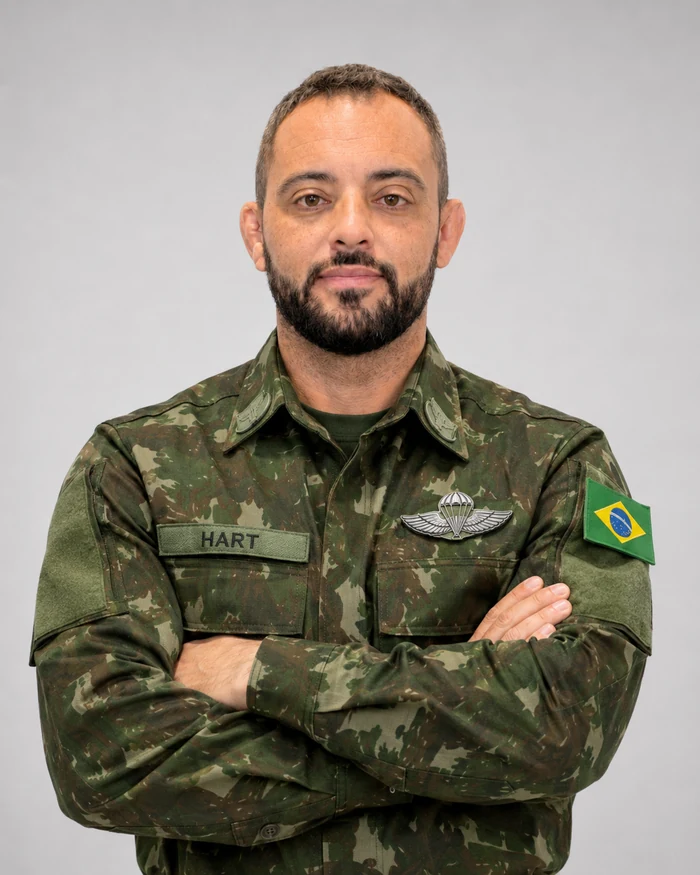
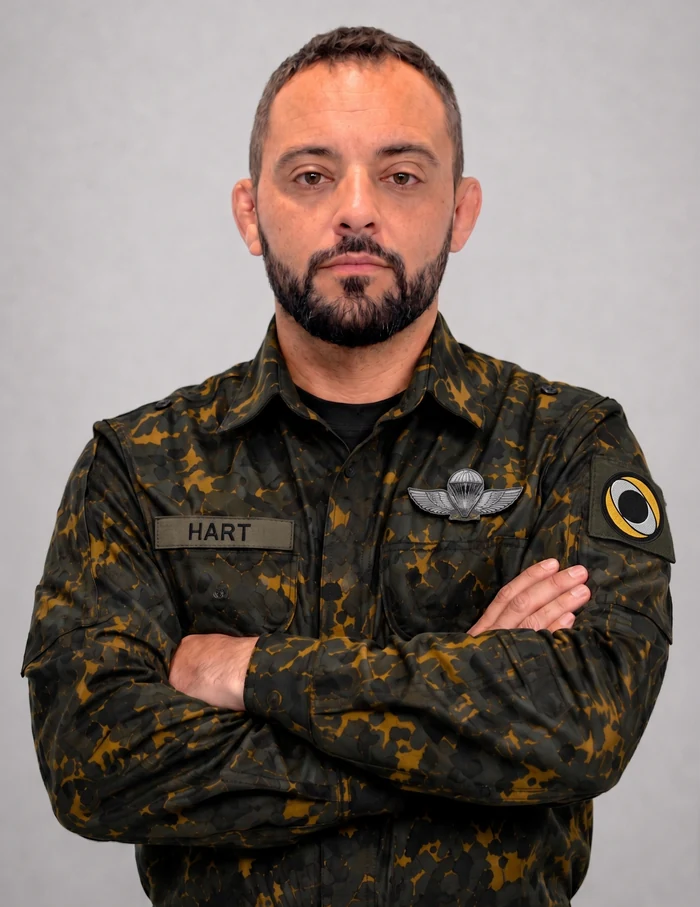
Bootcamp: novas imagens — bussola rotacionando + carimbo MISSÃO APROVADA + card MISSÃO + OG image
8 imagens novas otimizadas (19MB → 590KB, -97%):

Substituicoes (versoes atualizadas):
- igor-fardado.webp: novo retrato meio corpo (sobrescreve antigo)
- chris-fardado.webp: novo retrato meio corpo
- igor-fullbody.webp: nova versao corpo inteiro
- chris-fullbody.webp: nova versao corpo inteiro

Novos elementos:
- bussola.webp: bussola militar (substitui mira pulsante no hero,
  rotaciona suavemente 60s linear, opacidade 55%)
- missao-aprovada.webp: carimbo grunge amarelo/preto (substitui icone
  check no estado de sucesso do form — rotacionado -3deg pra sensacao
  de carimbo de verdade, drop-shadow)
- missao-card.webp: card preto com dados da operacao
  (Data/Hora/Local/Formato/Investimento) inserido entre warning
  stripes e secao Promessa
- og-bootcamp.webp: flyer oficial do evento (Bootcamp 13-06.jpg)
  agora e a Open Graph image — quando alguem compartilhar a URL
  no WhatsApp/LinkedIn/Telegram aparece o flyer ao inves do og
  padrao do site

Animacoes adicionadas:
- bc-rotate-slow: bussola gira 360deg em 60s (sutil mas vivo)

diff --git a/orbit-next/src/app/bootcamp-orbit/html.ts b/orbit-next/src/app/bootcamp-orbit/html.ts
@@ -98,6 +98,11 @@ export const pageHTML = `
     0%, 100% { opacity: 0.20; transform: scale(1); }
     50% { opacity: 0.40; transform: scale(1.08); }
   }
+  /* Bussola rotaciona lentamente */
+  @keyframes bc-rotate-slow {
+    from { transform: rotate(0deg); }
+    to { transform: rotate(360deg); }
+  }
 
   /* ═══ HERO — full impact ═══ */
   .bc-hero { position: relative; padding: 110px 24px 90px; background: #0A0E13; overflow: hidden; min-height: 820px; display: flex; align-items: center; justify-content: center; }
@@ -615,16 +620,8 @@ export const pageHTML = `
     <line x1="100" y1="22" x2="100" y2="32" stroke="#ffba1a" stroke-width="2"/>
   </svg>
 
-  <!-- Mira / crosshair pulsante GRANDE (topo esquerdo) -->
-  <svg style="position:absolute;left:4%;top:18%;width:140px;height:140px;opacity:0.35;pointer-events:none;z-index:1;animation:bc-pulse-mira 3s ease-in-out infinite;" viewBox="0 0 100 100" xmlns="http://www.w3.org/2000/svg" fill="none" stroke="#ffba1a" stroke-width="2">
-    <circle cx="50" cy="50" r="45"/>
-    <circle cx="50" cy="50" r="30"/>
-    <circle cx="50" cy="50" r="3" fill="#ffba1a"/>
-    <line x1="50" y1="2" x2="50" y2="20"/>
-    <line x1="50" y1="80" x2="50" y2="98"/>
-    <line x1="2" y1="50" x2="20" y2="50"/>
-    <line x1="80" y1="50" x2="98" y2="50"/>
-  </svg>
+  <!-- Bussola militar (topo esquerdo, sutil rotacao) -->
+  <img src="/images/bootcamp/bussola.webp" alt="" style="position:absolute;left:4%;top:18%;width:180px;height:auto;opacity:0.55;pointer-events:none;z-index:1;animation:bc-rotate-slow 60s linear infinite;" loading="eager">
 
   <!-- Tanque SVG GRANDE (canto inferior esquerdo) -->
   <svg style="position:absolute;left:3%;bottom:50px;width:280px;height:auto;opacity:0.28;pointer-events:none;z-index:1;" viewBox="0 0 120 80" xmlns="http://www.w3.org/2000/svg" fill="#ffba1a">
@@ -730,6 +727,11 @@ export const pageHTML = `
 </section>
 
 <div class="bc-warning-stripes"></div>
+
+<!-- ═══ CARD DE MISSAO (detalhes da operacao) ═══ -->
+<section style="padding:60px 24px 40px;background:#0A0E13;text-align:center;">
+  <img src="/images/bootcamp/missao-card.webp" alt="Missão Bootcamp Orbit · Data: 13 de junho · Hora: 9h às 13h · Local: Square SC Florianópolis · Formato: Presencial + Online · Investimento: Gratuito" style="max-width:880px;width:100%;height:auto;margin:0 auto;display:block;filter:drop-shadow(0 8px 24px rgba(0,0,0,0.6));" loading="lazy">
+</section>
 
 <!-- ═══ PROMESSA ═══ -->
 <section class="bc-promise" id="promessa" style="position:relative;">
@@ -903,11 +905,11 @@ export const pageHTML = `
       <p class="bc-form__foot">[ EXCLUSIVO PARA CANAIS E CONSULTORIAS CLIENTES ATIVAS · ORBIT GESTÃO ]</p>
     </div>
   </form>
-  <div class="bc-form" id="bcSuccess" style="display:none;max-width:640px;margin:0 auto;">
-    <div class="bc-form__inner" style="text-align:center;">
-      <i class="fa-solid fa-circle-check" style="font-size:3.5rem;color:#3FB950;margin-bottom:18px;"></i>
-      <h3 style="color:#fff;font-family:'Black Ops One',impact,sans-serif;font-size:1.5rem;margin:0 0 8px;text-transform:uppercase;letter-spacing:1.5px;">Alistamento confirmado!</h3>
-      <p style="color:#C9D1D9;margin:0;font-family:'JetBrains Mono',monospace;font-size:0.95rem;">Vamos enviar todos os detalhes do Bootcamp Orbit para seu e-mail e WhatsApp.</p>
+  <div class="bc-form" id="bcSuccess" style="display:none;max-width:640px;margin:0 auto;border-color:#3FB950;">
+    <div class="bc-form__inner" style="text-align:center;padding:40px 30px;">
+      <img src="/images/bootcamp/missao-aprovada.webp" alt="Missão Aprovada" style="max-width:340px;width:80%;height:auto;margin:0 auto 24px;display:block;filter:drop-shadow(4px 4px 0 rgba(0,0,0,0.4));transform:rotate(-3deg);" loading="lazy">
+      <h3 style="color:#fff;font-family:'Black Ops One',impact,sans-serif;font-size:1.6rem;margin:0 0 12px;text-transform:uppercase;letter-spacing:2px;">Alistamento confirmado!</h3>
+      <p style="color:#C9D1D9;margin:0;font-family:'JetBrains Mono',monospace;font-size:0.95rem;line-height:1.6;">Vamos enviar todos os detalhes da operação para seu e-mail e WhatsApp.</p>
     </div>
   </div>
 </section>

diff --git a/orbit-next/src/app/bootcamp-orbit/page.tsx b/orbit-next/src/app/bootcamp-orbit/page.tsx
@@ -12,7 +12,7 @@ export const metadata: Metadata = {
     siteName: 'Orbit Gestão',
     locale: 'pt_BR',
     type: 'website',
-    images: [{ url: '/images/og-image.png', width: 1200, height: 630, alt: 'Bootcamp Orbit' }],
+    images: [{ url: '/images/bootcamp/og-bootcamp.webp', width: 1200, height: 1500, alt: 'Bootcamp Orbit — Imersão Canais 13/06' }],
   },
   twitter: {
     card: 'summary_large_image',
